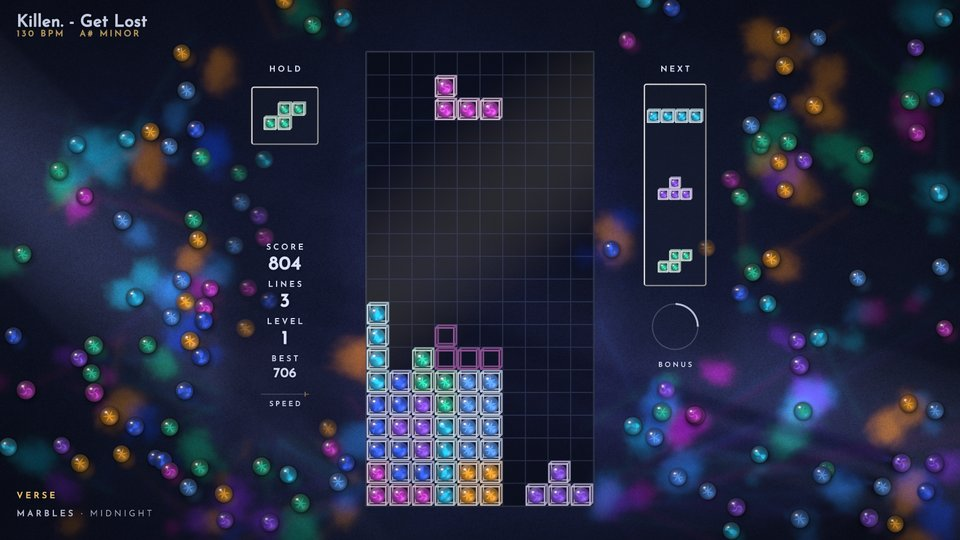
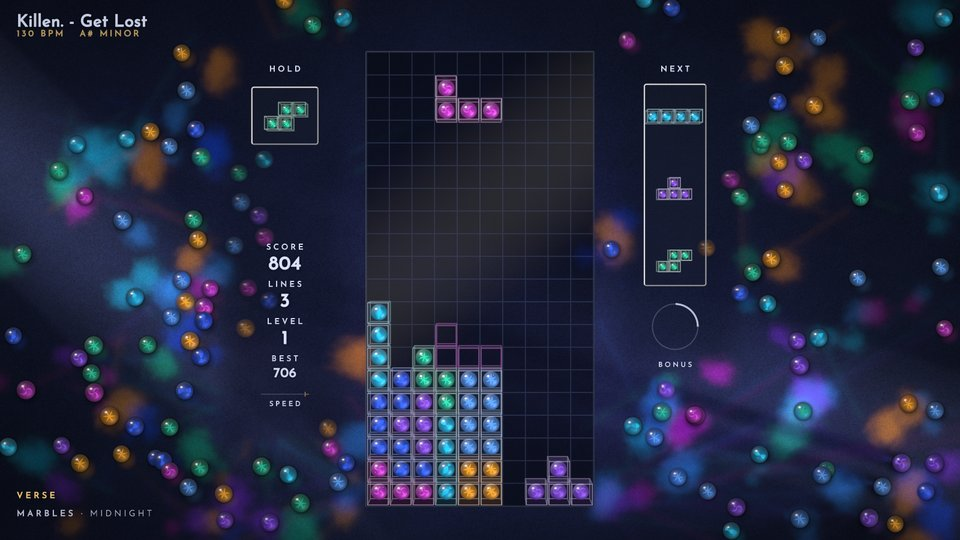
MARBLES: the glass cubes in real perspective (as LIBRARY's books: the back face pulled toward a vanishing point a little above the well's middle, the inner sides and the tops or bottoms showing), their edges thinner and dimmer; README image re-shot
Claude-Session: https://claude.ai/code/session_01TRpCVe8qgHvBr5qwovmpX7

diff --git a/src/universes/marbles/shaders.hpp b/src/universes/marbles/shaders.hpp
@@ -164,6 +164,8 @@ layout(location = 3) in vec4 a2;   // rotation, glow, seed, kind
 layout(location = 4) in vec4 a3;   // marble offset x, y (in the tile), flare, haze
 layout(location = 5) in vec4 a4;   // the light it receives: linear rgb, the angle it travels (< -5: the key light)
 uniform mat4 uVP;
+uniform vec2 uVanish;   // the cubes' vanishing point (board units)
+uniform float uPersp;   // how far their back faces are pulled toward it
 out vec2 vP;
 flat out vec4 v0, v1, v2, v3, v4;
 void main() {
@@ -171,7 +173,7 @@ void main() {
     vec2 ext;
     if (kind == 0) ext = vec2(a0.w * (a3.w > 0.5 ? 1.08 : 1.6)) + abs(a3.xy);   // (a3.xy: its motion blur)
     else if (kind == 4) ext = vec2(a0.z, a0.w) + a3.x + 0.05;                    // (a3.x: the rim's width)
-    else ext = vec2(a0.z + 0.12);
+    else ext = vec2(a0.z + 0.12) + abs(uVanish - a0.xy) * uPersp * (a0.z / 0.46);   // (the back face, in perspective)
     vP = aQ * ext;
     v0 = a0; v1 = a1; v2 = a2; v3 = a3; v4 = a4;
     gl_Position = uVP * vec4(a0.xy + vP, 0.0, 1.0);
@@ -183,6 +185,8 @@ flat in vec4 v0, v1, v2, v3, v4;
 out vec4 frag;
 uniform vec4 uKey;             // the key light (the beams' source): the direction it travels xy, its strength, -
 uniform vec3 uKeyCol;
+uniform vec2 uVanish;
+uniform float uPersp;
 uniform float uPx, uTileTint, uTileAlpha, uBridge, uLightGround, uSat, uCore, uWorldK, uGloss;
 uniform vec3 uTileCol, uLightCol, uHazeCol, uBridgeInk, uPanelEdge;
 uniform vec4 uPanel;           // the well's pane: rgb, opacity (what a marble in a tile sees behind it)
@@ -365,35 +369,51 @@ void main() {
     vec3 Lc = v4.rgb;
     vec2 ld = vec2(cos(v4.w), sin(v4.w));
     if (v4.w < -5.0) { Lc = uKeyCol * uKey.z; ld = uKey.xy; }
-    // a clear glass cube seen a little from below left: its front face (down left) and its back face (up right)
-    // joined at the corners, drawn as fine edges of light in the marble's color, its glass barely there
-    float co = 0.055 * h / 0.46, cs = h - co;               // the faces' offset, their half size
-    vec2 pf = p + co, pb = p - co;                            // around the front face, the back face
-    float dFront = abs(sdRoundBox(pf, vec2(cs), 0.02));
-    float dBack = abs(sdRoundBox(pb, vec2(cs), 0.02));
-    float dJoin = 1e3;
-    for (int k = 0; k < 4; k++) {
-        vec2 cn = vec2(k == 0 || k == 3 ? -cs : cs, k < 2 ? -cs : cs);
-        vec2 a0 = cn - co, ab = vec2(2.0 * co);
-        float t = clamp(dot(p - a0, ab) / dot(ab, ab), 0.0, 1.0);
+    // a clear glass cube in perspective, seen from a camera in front of the well (above its middle, as LIBRARY's
+    // books): its front face on the cell, its back face pulled toward the vanishing point and a little smaller, so a
+    // cube off the middle shows its inner side and one lower down its top; all twelve edges drawn as fine lines of
+    // light in the marble's color, its glass barely there
+    float hf = h * 0.985, hk = hf * (1.0 - uPersp);         // the front and back faces' half sizes
+    vec2 off = (uVanish - v0.xy) * uPersp * (h / 0.46);      // the back face's center, from the front's
+    vec2 pf = p, pb = p - off;
+    float dFront = abs(sdRoundBox(pf, vec2(hf), 0.02));
+    float dBack = abs(sdRoundBox(pb, vec2(hk), 0.02));
 )"
-R"(        dJoin = min(dJoin, length(p - a0 - ab * t));
+R"(    float dJoin = 1e3;
+    for (int k = 0; k < 4; k++) {
+        vec2 sg = vec2(k == 0 || k == 3 ? -1.0 : 1.0, k < 2 ? -1.0 : 1.0);
+        vec2 a0 = sg * hf, ab = off + sg * hk - a0;
+        float t = clamp(dot(p - a0, ab) / dot(ab, ab), 0.0, 1.0);
+        dJoin = min(dJoin, length(p - a0 - ab * t));
     }
-    float lw = px * 0.85;
+    float lw = px * 0.4;
     float eFront = smoothstep(lw + px, lw, dFront);
     float eBack = smoothstep(lw + px, lw, min(dBack, dJoin));
     vec3 edgeCol = mix(c0, vec3(1.0), 0.65);
-    if (kind == 1) mo -= co * 0.7;   // the marble sits in the middle of the cube, between its faces
+    if (kind == 1) mo += off * 0.5;   // the marble sits in the middle of the cube, between its faces
     if (kind >= 1) {
-        float hull = max(smoothstep(px, -px, sdRoundBox(pf, vec2(cs), 0.02)), smoothstep(px, -px, sdRoundBox(pb, vec2(cs), 0.02)));
+        // inside the cube's outline: some face between the front (t 0) and the back (t 1) holds the pixel
+        float lo = 0.0, hi = 1.0;
+        for (int i = 0; i < 2; i++) {
+            float pi = i == 0 ? p.x : p.y, oi = i == 0 ? off.x : off.y, dd = hk - hf;
+            // |pi - t oi| <= hf + t dd: two conditions A <= t B
+            for (int sgn = 0; sgn < 2; sgn++) {
+                float sv = sgn == 0 ? 1.0 : -1.0;
+                float A = sv * pi - hf, B = sv * oi + dd;
+                if (abs(B) < 1e-6) { if (A > 0.0) hi = -1.0; }
+                else if (B > 0.0) lo = max(lo, A / B);
+                else hi = min(hi, A / B);
+            }
+        }
+        float hull = lo <= hi ? 1.0 : 0.0;
         if (kind == 2) {
             // the ghost: the cube's edges only
-            frag = vec4(mix(c0, uBridgeInk, bb), max(eFront, eBack * 0.75) * 0.7 * alpha);
+            frag = vec4(mix(c0, uBridgeInk, bb), max(eFront, eBack * 0.7) * 0.5 * alpha);
             return;
         }
         // the glass: a faint tint, the top and right side faces a little lighter; the back edges seen through it;
         // the marble's shadow on the back face
-        float onFront = smoothstep(px, -px, sdRoundBox(pf, vec2(cs), 0.02));
+        float onFront = smoothstep(px, -px, sdRoundBox(pf, vec2(hf), 0.02));
         vec3 base = mix(bgAt(v0.xy), c0, 0.25) * 0.6 + edgeCol * 0.06 * (1.0 - onFront);
         float ta = 0.16 + 0.1 * (1.0 - onFront);
         if (kind == 1) {
@@ -402,11 +422,11 @@ R"(        dJoin = min(dJoin, length(p - a0 - ab * t));
             base *= 1.0 - 0.6 * sh;
             ta = mix(ta, 0.6, sh * 0.5);
         }
-        base = mix(base, edgeCol, eBack * 0.8);
-        ta = max(ta, eBack * 0.6);
+        base = mix(base, edgeCol, eBack * 0.5);
+        ta = max(ta, eBack * 0.35);
         base = mix(base, uBridgeInk, bb);
         ta = mix(ta, 0.95, bb);
-        outc = vec4(base, max(hull * ta, eBack * 0.6));   // (two corners' joins lie outside both faces)
+        outc = vec4(base, max(hull * ta, eBack * 0.35));   // (two corners' joins lie outside both faces)
         if (kind == 3) {
             outc = vec4(mix(outc.rgb, edgeCol, eFront * (1.0 - bb)), max(outc.a, eFront * 0.85));
             frag = vec4(outc.rgb, outc.a * alpha);
@@ -453,14 +473,14 @@ R"(        dJoin = min(dJoin, length(p - a0 - ab * t));
     }
     if (kind == 1 && bb < 1.0) {
         // the cube's front edges over its marble, and a faint window on its front face
-        vec2 qf = pf / cs;
-        float face = smoothstep(px, -px, sdRoundBox(pf, vec2(cs), 0.02)) * (1.0 - bb);
+        vec2 qf = pf / hf;
+        float face = smoothstep(px, -px, sdRoundBox(pf, vec2(hf), 0.02)) * (1.0 - bb);
         float wb = dot(qf, vec2(0.6, 0.8)) - 0.3;
         float win = smoothstep(0.0, 0.2, wb) * smoothstep(0.7, 0.45, wb) * smoothstep(0.3, -0.6, qf.x - qf.y * 0.2);
         outc.rgb += uLightCol * win * 0.06 * face;
         float ef = eFront * (1.0 - bb);
-        outc.rgb = mix(outc.rgb, edgeCol, ef * 0.85);
-        outc.a = max(outc.a, max(ef * 0.85, win * 0.06 * face));
+        outc.rgb = mix(outc.rgb, edgeCol, ef * 0.55);
+        outc.a = max(outc.a, max(ef * 0.55, win * 0.06 * face));
     }
     frag = vec4(outc.rgb, outc.a * alpha);
 }

diff --git a/src/universes/marbles/marbles.cpp b/src/universes/marbles/marbles.cpp
@@ -78,6 +78,7 @@ float smin(float a, float b, float k) {
 constexpr float WELL_HALF = 5.2f, WELL_TOP = 10.15f;   // the pane's extent (the drop's waves start there)
 constexpr float TILE_H = 0.46f, TILE_R = 0.38f;       // a tile's half size, its marble's radius (board units)
 constexpr int MAX_MARBLES = 140;
+constexpr float PERSP = 0.024f;                         // the cubes' back faces pulled toward the vanishing point
 constexpr float R_MIN = 0.38f, R_MAX = 0.43f;          // the marbles on the table
 constexpr float ROLL = 2.2f, DRAG = 0.2f;              // the felt's rolling resistance: units/s^2, and 1/s
 constexpr float E_MARBLE = 0.86f;                      // restitution, marble on marble
@@ -1208,6 +1209,10 @@ void MarblesUniverse::flush() {
     const float bb = smoothstepf(0.3f, 0.95f, bridge_.amount);
     glUseProgram(progMarble_);
     setMat(progMarble_, "uVP", vp_);
+    // the cubes' perspective: a camera in front of the well, a little above its middle (eight rows below its top)
+    const vec3 vanish = layout::cellPos(4.5f, (float)Game::HIDDEN + 8.f);
+    set2f(progMarble_, "uVanish", vanish.x, vanish.y);
+    set1f(progMarble_, "uPersp", PERSP);
     set1f(progMarble_, "uPx", px_);
     set1f(progMarble_, "uTileTint", pal_.tileTint);
     set1f(progMarble_, "uTileAlpha", pal_.tileAlpha);

diff --git a/docs/universes.md b/docs/universes.md
@@ -147,7 +147,7 @@ Fluorescent paint splashed on a dark wall. The background is a matte, textured w
 
 ![MARBLES](universes/marbles.jpg)
 
-Glass marbles in square tiles, shot out across a dark table where they collide and stain the felt. One world seen from above, lit like a film still: a dark table with a fine grain, never busy (navy felt, teal slate or black brushed metal, one per variant; the slate and the felt show a soft relief lit from up left), under a soft overhead pool of light, its corners sinking into a moody vignette; the well stands on it as a pane of dark glass with no frame: the table shows dimly through it, a fine grid of cells on it, a faint reflection of the room sliding across it; HOLD and NEXT sit in thin glass frames. Everything on the table (the marbles, the dye, the light) lies under the well and the HUD, never over the game: under the pane a marble is at most a dim shape, under the HUD's columns and text a rolling marble is dimmed and its halo dropped, and the HUD is a gentle slope: a slow or resting marble there is pushed out (to the nearest side away from the well) until it rests outside, so nothing ever settles under the HUD, and no dye settles there either. Each cell of a piece is a marble (the same as those on the table, a little brighter, filling most of the cell) wrapped in a clear glass cube seen a little from below left: its front face (down left) and back face (up right) joined at the corners, drawn as fine edges of light in a pale tint of the marble's color, the front edges over the marble, the back ones seen faintly through the glass, which is barely there (the marble's soft shadow on the back face, a faint window on the front); the ghost is the cube's edges alone; a cleared cell's empty cube swells and fades as its marble is shot out; the falling piece has no glow and no trail. The marbles are colored glass, deep and saturated like jewels: through each one the table under it is seen upside down, as through a lens, tinted by the glass, which also holds a little light in its own color (so that a marble reads as its color, never as a gray bead, even over the dark table), darker toward the rim, the sky caught at its edge tinted too; inside, magnified and in two layers for depth, its core, one per piece type (a twisted ribbon, a cat's eye of three curved vanes or a swirl of strands), a few tiny bubbles; every marble is a glossy ball under the room's overhead light (a crisp window up left on the glass, the light it focuses glowing inside low right, a thin dark silhouette at its edge); on the table each casts a soft shadow down right and lets a soft pool of its color through onto the table beside it; the marbles on the table are dimmer than the board's (about three quarters), and one rolling fast is smeared along its way (motion blur). They are lit by real light: two lamps beyond the table's sides throw wide soft beams grazing it, one over each side of the well, turning and drifting very slowly (a few minutes to sweep the table outside a drop, livelier in one) and fading with distance, the second one coming up from mid on; their rays are traced in 2D on the CPU through the marbles (each a glass ball: refracted in and out, a Fresnel reflection, the light tinted by its glass on the way, focused like a ball lens into a narrow caustic just behind it that opens out into thin streaks of tinted light, a shadow around them; a marble lights its neighbours; the cost is bounded: 44 rays a beam, a capped number of segments, the hashed grid). Each marble is lit by the light that actually crosses it, smoothed: its glass and core glow in their tint, a focused spot inside on the far side, the rim facing the light catching it, the lamp's highlight where its surface faces it; the marbles in the well take the key light from the same side. The light on the table shows the grain and, above all, the dye; it stays secondary, soft-shouldered, never blinding, and it never pulses. Outside a drop it is calm and steady: the traced light is eased into what the table shows over about 0.7 s (0.1 s in a drop) and each marble's received light over about as long, so caustics fade in and out as the beams drift and marbles roll, nothing pops or flickers when the marbles are still, and there are no sparkles: at most a marble now and then swelling softly with light over a second and a half. A cleared row pops: its tiles swell a little and vanish in a moment and each marble drops onto the table under its cell and is shot out along its row to its own side (a slight spread, so it comes out of the well's edge at the height of its line) at a real speed (fast enough to carry it past the HUD's columns), gliding out from under the glass (touching nothing there, only a dim shape: nothing ever comes to rest hidden under the well), knocking past the wall of the box (deflected a little up or down, so the marbles fan out over the table instead of heaping level with the low rows; now and then a few short sparks there) and rolling across the table, slowed by the felt, knocking into the marbles already lying there: elastic collisions (restitution 0.86), billiard chains, a hard knock throwing a few short hot sparks off the contact; a marble at rest sleeps until it is hit hard enough (a gentle touch leaves it be: no jitter, no creeping); no walls: a marble pushed off the edge of the picture is gone (their speeds vary widely: some rest just past the HUD, some far out, a few roll off); at most about 140, the oldest at rest fading away, and a marble long at rest packed among three or more others fades away now and then, so the table stays a loose scatter however long the song, never a heap; at the real speed, even in slow motion. Every hit spreads color: both marbles stain the felt around them with their dye (a richer shade of their glass), soft ragged blots soaked into the grain and softened into pools of colored light (glowing a little), the harder the hit the wider and deeper, and rolling marbles leave faint traces; the dye is painted into a persistent layer (anti-aliased, the cost the same with ten stains or thousands), so a song starts on a dark, empty table and ends on a colorful one; a new song washes the dye out over a couple of seconds and its marbles fade away. Three variants, each with its table and seven saturated jewel colors for its seven pieces (no pale or gray marble), from the key, mode and brightness: MIDNIGHT (navy felt; sapphire, cyan, cornflower, amethyst, magenta, emerald, a gold accent), SEA GLASS (dark teal slate; the deep colors of sea glass: aqua, seafoam, sky, emerald, cobalt, amber, a coral accent) and OBSIDIAN (black brushed metal; fire: crimson, vermilion, amber, yellow, raspberry, violet, an ice-blue accent). The dye takes the marbles' colors, barely deepened, so it never outshines them. The colors are already rich through the song, a little richer in a chorus, and richer still and glowing for a drop, easing back over a few seconds after it (`--universe "marbles:sea glass"`). Calm is still; mid sets a resting marble rolling now and then and lets one swell softly with light on some bars; a chorus brings now and then a marble swelling with light on a kick (no glow around the well, ever). A drop sends waves of light flowing through the marbles every two beats (a stronger, double band on the bars), each drop its own shape: out from the well, in from the edges, sweeping across, rising, rings spreading from a marble, or diagonal bands; the fronts are light travelling through the marbles (each lit from the side the front comes from), their cores glowing first, glints sparkling along it; the beams turn whiter (no brighter: the table and the well's surroundings stay as dark as in the verse, the drop's light lives on the marbles) and each marble splits them into a wider spectrum, rainbow fans across the felt; each lit marble burns brighter (highlights, rims) and throws its light on the table just behind it, a pool of its color split into a little spectrum; and on the kicks a few lit marbles are nudged into their neighbours (more color); its first downbeat sends a triple wave. A lock settles the piece's marbles in their tiles; a hard drop jolts them, the jolt carries a little into the tiles under it and the glass of the bottom marbles flashes. A quad shoots its marbles harder and sends a wave of light out from the well through every marble; slow motion is night (the table sinks into the dark, the marbles glow softly like lanterns); game over shoots every marble out of its tile, row by row from the top; it leaves and enters with the world fading to the bridge, the stack in plain squares of ink. The bonus gauge is a ring of twelve small marbles, one more for each cleared line, a light running around it once it is full. Its HUD fonts are Outfit Light and Outfit Medium (SIL Open Font License, `src/universes/marbles/OFL-Outfit.txt`).
+Glass marbles in square tiles, shot out across a dark table where they collide and stain the felt. One world seen from above, lit like a film still: a dark table with a fine grain, never busy (navy felt, teal slate or black brushed metal, one per variant; the slate and the felt show a soft relief lit from up left), under a soft overhead pool of light, its corners sinking into a moody vignette; the well stands on it as a pane of dark glass with no frame: the table shows dimly through it, a fine grid of cells on it, a faint reflection of the room sliding across it; HOLD and NEXT sit in thin glass frames. Everything on the table (the marbles, the dye, the light) lies under the well and the HUD, never over the game: under the pane a marble is at most a dim shape, under the HUD's columns and text a rolling marble is dimmed and its halo dropped, and the HUD is a gentle slope: a slow or resting marble there is pushed out (to the nearest side away from the well) until it rests outside, so nothing ever settles under the HUD, and no dye settles there either. Each cell of a piece is a marble (the same as those on the table, a little brighter, filling most of the cell) wrapped in a clear glass cube in real perspective (as LIBRARY's books: a camera in front of the well a little above its middle; the front face on the cell, the back face pulled toward the vanishing point and a little smaller, so the columns off the middle show their inner sides, the low cubes their tops and the falling piece near the top its bottom, HOLD and NEXT their inner sides too), its twelve edges thin, dim lines of light in a pale tint of the marble's color, the front edges over the marble (the marble halfway between the faces), the back ones fainter, seen through the glass, which is barely there (the marble's soft shadow on the back face, a faint window on the front); the ghost is the cube's edges alone; a cleared cell's empty cube swells and fades as its marble is shot out; the falling piece has no glow and no trail. The marbles are colored glass, deep and saturated like jewels: through each one the table under it is seen upside down, as through a lens, tinted by the glass, which also holds a little light in its own color (so that a marble reads as its color, never as a gray bead, even over the dark table), darker toward the rim, the sky caught at its edge tinted too; inside, magnified and in two layers for depth, its core, one per piece type (a twisted ribbon, a cat's eye of three curved vanes or a swirl of strands), a few tiny bubbles; every marble is a glossy ball under the room's overhead light (a crisp window up left on the glass, the light it focuses glowing inside low right, a thin dark silhouette at its edge); on the table each casts a soft shadow down right and lets a soft pool of its color through onto the table beside it; the marbles on the table are dimmer than the board's (about three quarters), and one rolling fast is smeared along its way (motion blur). They are lit by real light: two lamps beyond the table's sides throw wide soft beams grazing it, one over each side of the well, turning and drifting very slowly (a few minutes to sweep the table outside a drop, livelier in one) and fading with distance, the second one coming up from mid on; their rays are traced in 2D on the CPU through the marbles (each a glass ball: refracted in and out, a Fresnel reflection, the light tinted by its glass on the way, focused like a ball lens into a narrow caustic just behind it that opens out into thin streaks of tinted light, a shadow around them; a marble lights its neighbours; the cost is bounded: 44 rays a beam, a capped number of segments, the hashed grid). Each marble is lit by the light that actually crosses it, smoothed: its glass and core glow in their tint, a focused spot inside on the far side, the rim facing the light catching it, the lamp's highlight where its surface faces it; the marbles in the well take the key light from the same side. The light on the table shows the grain and, above all, the dye; it stays secondary, soft-shouldered, never blinding, and it never pulses. Outside a drop it is calm and steady: the traced light is eased into what the table shows over about 0.7 s (0.1 s in a drop) and each marble's received light over about as long, so caustics fade in and out as the beams drift and marbles roll, nothing pops or flickers when the marbles are still, and there are no sparkles: at most a marble now and then swelling softly with light over a second and a half. A cleared row pops: its tiles swell a little and vanish in a moment and each marble drops onto the table under its cell and is shot out along its row to its own side (a slight spread, so it comes out of the well's edge at the height of its line) at a real speed (fast enough to carry it past the HUD's columns), gliding out from under the glass (touching nothing there, only a dim shape: nothing ever comes to rest hidden under the well), knocking past the wall of the box (deflected a little up or down, so the marbles fan out over the table instead of heaping level with the low rows; now and then a few short sparks there) and rolling across the table, slowed by the felt, knocking into the marbles already lying there: elastic collisions (restitution 0.86), billiard chains, a hard knock throwing a few short hot sparks off the contact; a marble at rest sleeps until it is hit hard enough (a gentle touch leaves it be: no jitter, no creeping); no walls: a marble pushed off the edge of the picture is gone (their speeds vary widely: some rest just past the HUD, some far out, a few roll off); at most about 140, the oldest at rest fading away, and a marble long at rest packed among three or more others fades away now and then, so the table stays a loose scatter however long the song, never a heap; at the real speed, even in slow motion. Every hit spreads color: both marbles stain the felt around them with their dye (a richer shade of their glass), soft ragged blots soaked into the grain and softened into pools of colored light (glowing a little), the harder the hit the wider and deeper, and rolling marbles leave faint traces; the dye is painted into a persistent layer (anti-aliased, the cost the same with ten stains or thousands), so a song starts on a dark, empty table and ends on a colorful one; a new song washes the dye out over a couple of seconds and its marbles fade away. Three variants, each with its table and seven saturated jewel colors for its seven pieces (no pale or gray marble), from the key, mode and brightness: MIDNIGHT (navy felt; sapphire, cyan, cornflower, amethyst, magenta, emerald, a gold accent), SEA GLASS (dark teal slate; the deep colors of sea glass: aqua, seafoam, sky, emerald, cobalt, amber, a coral accent) and OBSIDIAN (black brushed metal; fire: crimson, vermilion, amber, yellow, raspberry, violet, an ice-blue accent). The dye takes the marbles' colors, barely deepened, so it never outshines them. The colors are already rich through the song, a little richer in a chorus, and richer still and glowing for a drop, easing back over a few seconds after it (`--universe "marbles:sea glass"`). Calm is still; mid sets a resting marble rolling now and then and lets one swell softly with light on some bars; a chorus brings now and then a marble swelling with light on a kick (no glow around the well, ever). A drop sends waves of light flowing through the marbles every two beats (a stronger, double band on the bars), each drop its own shape: out from the well, in from the edges, sweeping across, rising, rings spreading from a marble, or diagonal bands; the fronts are light travelling through the marbles (each lit from the side the front comes from), their cores glowing first, glints sparkling along it; the beams turn whiter (no brighter: the table and the well's surroundings stay as dark as in the verse, the drop's light lives on the marbles) and each marble splits them into a wider spectrum, rainbow fans across the felt; each lit marble burns brighter (highlights, rims) and throws its light on the table just behind it, a pool of its color split into a little spectrum; and on the kicks a few lit marbles are nudged into their neighbours (more color); its first downbeat sends a triple wave. A lock settles the piece's marbles in their tiles; a hard drop jolts them, the jolt carries a little into the tiles under it and the glass of the bottom marbles flashes. A quad shoots its marbles harder and sends a wave of light out from the well through every marble; slow motion is night (the table sinks into the dark, the marbles glow softly like lanterns); game over shoots every marble out of its tile, row by row from the top; it leaves and enters with the world fading to the bridge, the stack in plain squares of ink. The bonus gauge is a ring of twelve small marbles, one more for each cleared line, a light running around it once it is full. Its HUD fonts are Outfit Light and Outfit Medium (SIL Open Font License, `src/universes/marbles/OFL-Outfit.txt`).
 
 ## PRISM
 
